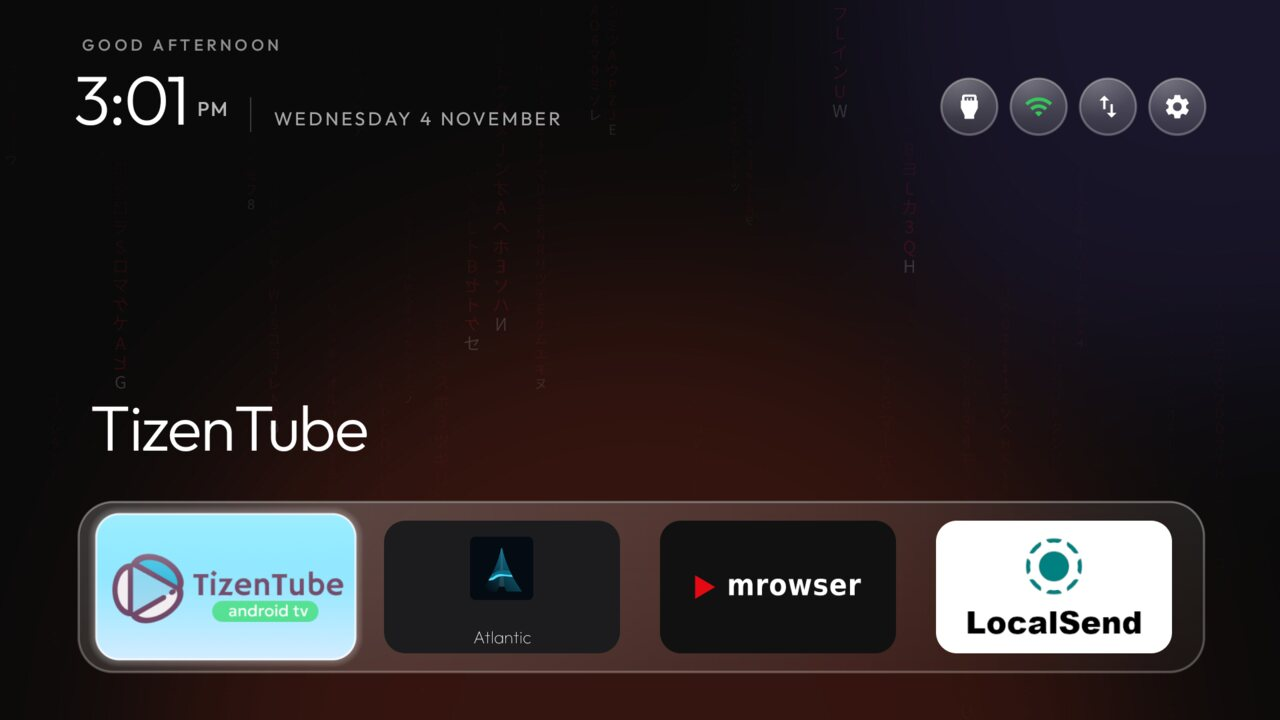
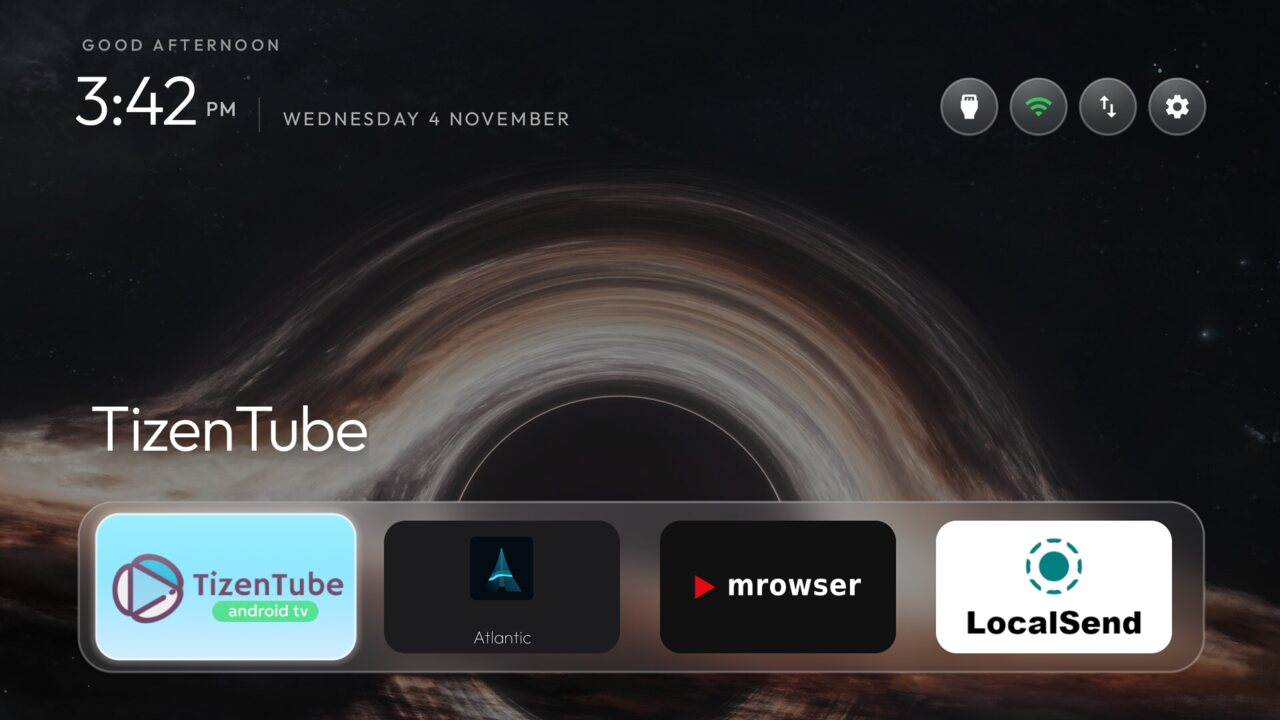
themes: r4g-home puts bright detail behind the dock, and names get a shadow
Red-rain's picture is empty black where the glass sits, so the frost had
nothing to smear whatever it was tinted. The wallpaper is now a black-hole
still cropped so its accretion disc runs behind the dock band (0.44 mean
luminance there, against 0.0011), dimmed 45% so the white app name stays
legible over it, and the app name carries a shadow for good measure.

Tried on the Acer R4G 50" (Google TV 14, UKR1.260308).

diff --git a/themes/r4g-home/README.md b/themes/r4g-home/README.md
@@ -25,7 +25,8 @@ way every folder in [`themes/`](../) is.
 | `icon_only_buttons` | `true` | Wi-Fi and Settings as round icon buttons; Inputs keeps its label. |
 | `icon_only_inputs` | `true` | Inputs round too — it has its own key, `icon_only_buttons` does not cover it. |
 | `ambient_glow` | `false` | No app-coloured radial glow behind the dock: with a wallpaper of its own, the focused app's colour wash was noise on top of it. false hides the glow view entirely; the dock band and the tile highlight are unaffected. |
-| `wallpaper_true_color` | `true` | Decode the wallpaper in 32-bit colour instead of RGB_565. Ours is red code rain on near-black — a dark gradient exactly the kind of image the built-in config warns "bands" in 565 — and this TV has the 2 GB the key is meant for. The picture is `red-rain`'s (`wallpaper.jpg` here is that theme's file, so the look can come over without its dock, its six streaming apps or its missing `stock_home_redirect`). |
+| `wallpaper_dim` | `45` | The picture at 45 % black so the white app name and clock stay legible where the disc is brightest — the glass still shows it, dimmed with it. |
+| `wallpaper_true_color` | `true` | Decode the wallpaper in 32-bit colour instead of RGB_565. The picture is a wide, soft gradient — the kind the built-in config warns "bands" in 565 — and this TV has the 2 GB the key is meant for. |
 | `reorder_button` | `true` | A reorder button (two arrows) in the top bar, between Wi-Fi and Settings: press it to pick tiles up and move them with the D-pad (Back saves and leaves). Reordering is also in the Settings button's long-press menu; this just gives it a visible way in. |
 | `wifi_label_width` | `0` | Icon only, no network name. **Pinned deliberately:** `Config` reads this from the installed APK's resources *before* overlaying `config.json`, and that build's default is non-zero, so the Wi-Fi pill kept its label until the value was written here. |
 | `wifi_status_color` | `true` | The Wi-Fi icon tints with the connection instead of always white: green while online, white while it is not (needs a rebuild, see below). |
@@ -34,7 +35,7 @@ way every folder in [`themes/`](../) is.
 | `single_row` | `true` | Every app in one horizontal dock row: four tiles on screen at once (`columns` = 4), Right/Left scroll the row sideways to the rest. No grid below; Up goes to the top bar. |
 | `dock_band_all` | `true` | With `single_row`, the dock band runs behind **every** app in the row instead of only the four in `dock_apps`. |
 | `dock_glass` | `true` | The dock band as liquid glass, so the wallpaper shows through it: the white body fading downwards, a glint off the top-left corner, a dark inner shadow under the top rim, a bright rim that dims towards the bottom, and the frost magnified about 3.5 % about the shape's centre so the light looks bent at the rim — the same material the pills and every popup carry. Supersedes `dock_opacity` while on — the light glass has no dark colour to scale. |
-| `dock_blur` | `24` | Real backdrop blur behind the dock band: a blurred copy of the wallpaper clipped to the band's rounded rectangle (RenderEffect, Android 12+). The same blur and the band's glass also frost the top-right pills (inputs, network, reorder, settings), every glass popup's background and the settings panel the remote's Settings key opens, each blurred against its own place on screen; the pills keep their translucent circles and the popups their rows on top. One setting, 0 turns it all off. **The blur only smears what the picture has.** `wallpaper.jpg` is red-rain's file treated so the glass has something to show: the rain lifted in contrast (`gamma 0.55`, then `add 4%`) so its text is far brighter than the black around it, plus a soft red glow behind the dock and a faint violet one behind the top bar, both added in the picture (not the launcher, so they cost nothing to draw). Red-rain's original is near-black behind the dock — 0.0011 mean luminance in the band's rows against 0.09 now — and the bottom third carries almost no rain at all, so on the untouched file the frost had nothing to smear and the glass read as a grey slab whichever way it was tinted. |
+| `dock_blur` | `24` | Real backdrop blur behind the dock band: a blurred copy of the wallpaper clipped to the band's rounded rectangle (RenderEffect, Android 12+). The same blur and the band's glass also frost the top-right pills (inputs, network, reorder, settings), every glass popup's background and the settings panel the remote's Settings key opens, each blurred against its own place on screen; the pills keep their translucent circles and the popups their rows on top. One setting, 0 turns it all off. **The blur only smears what the picture has**, which is what chose this wallpaper: `wallpaper.jpg` is the black-hole still cropped so its bright accretion disc runs behind the dock band (band rows measure 0.44 mean luminance, against 0.0011 for red-rain's near-black bottom), and the glass visibly smears that disc. Red-rain's rain is 1–2 px text over empty black there, so no tint and no lift could make it read as glass — [MYTV.md](../../MYTV.md) §8 has the measurements. |
 | `dock_opacity` | `30` | The dock band at 30% opacity, so the wallpaper shows through it. Only applies while `dock_glass` is off. A value picked in Launcher settings still wins until the next `tools/theme.sh` push, which clears the pick (100, 70, 50 or 30 are its options). |
 | `stock_home_redirect` | `com.google.android.apps.tv.launcherx` | Stock Home stays on `launcherx` — this firmware re-enables it every cold boot — and sends its home screen straight back to this launcher. |
 | `home_idle_clock_minutes` | `10` | Clock screensaver after 10 idle minutes on Home (`0` = off). |

diff --git a/MYTV.md b/MYTV.md
@@ -308,15 +308,20 @@ buttons sit over near-pure black: the band's rows measured **0.0011** mean lumin
 **0.0001**, and the bottom third carries almost no rain at all — so even a brightened copy of it smears to a
 flat wash, and the glass read as a grey slab whichever way it was tinted. Not a bug in the layer: pushing a
 green-over-red test picture and sampling a column inside the band showed the colour ramping over about 60
-rows, against a 2-row flip outside it. Two things fixed it:
+rows, against a 2-row flip outside it. What was tried, in order, and what stuck:
 
-- **The picture carries something to transmit.** `gamma 0.55` then `add 4%` lifts the rain so its text is far
-  brighter than the black around it (a blur of thin bright text reads as a haze; a blur of grey reads as
-  grey), plus a soft red glow behind the dock and a faint violet one behind the top bar, composited into the
-  picture itself. The band's rows now measure **0.09** and the circles **0.11** — the glow was halved from a first pass
-(0.12 / 0.18) that read too warm over the rain.
-- **The glass carries its own material**, so the shapes read as glass even where the backdrop is dark — the
-  body (28% white fading to 12%), the inner shadow, the bright rim and the 3.5% refraction.
+- **Lifting the rain** (`gamma 0.55`, `add 4%`) and adding a red glow behind the dock and a violet one behind
+  the top bar made the glass show *something* (band rows 0.09), but thin text and a smooth glow both blur to
+  themselves, so the frost still read as a tinted panel rather than a melted picture.
+- **A picture with large, bright detail behind the glass** is what actually shows a blur. `wallpaper.jpg` is
+  now a black-hole still cropped so its accretion disc runs behind the dock band (band rows **0.44**, bright
+  detail right where the glass sits), with `wallpaper_dim: 45` so the white app name stays legible over it.
+  The band visibly smears the disc; red-rain's rain is kept on the branch's earlier commits only.
+- **The glass carries its own material** either way, so the shapes read as glass even where the backdrop is
+  dark — the body (28% white fading to 12%), the inner shadow, the bright rim and the 3.5% refraction.
+
+The lesson for the next wallpaper: choose one with big bright shapes where the dock and the circles sit, and
+check it with `magick wallpaper.jpg -crop 1920x180+0+750 -format '%[fx:mean]' info:` before blaming the blur.
 
 Verifying a blur claim, rather than trusting a screenshot: put a high-contrast test picture behind the band
 (green above, red below) and sample rows across the band's edge. Outside the band the colour flips green→red
